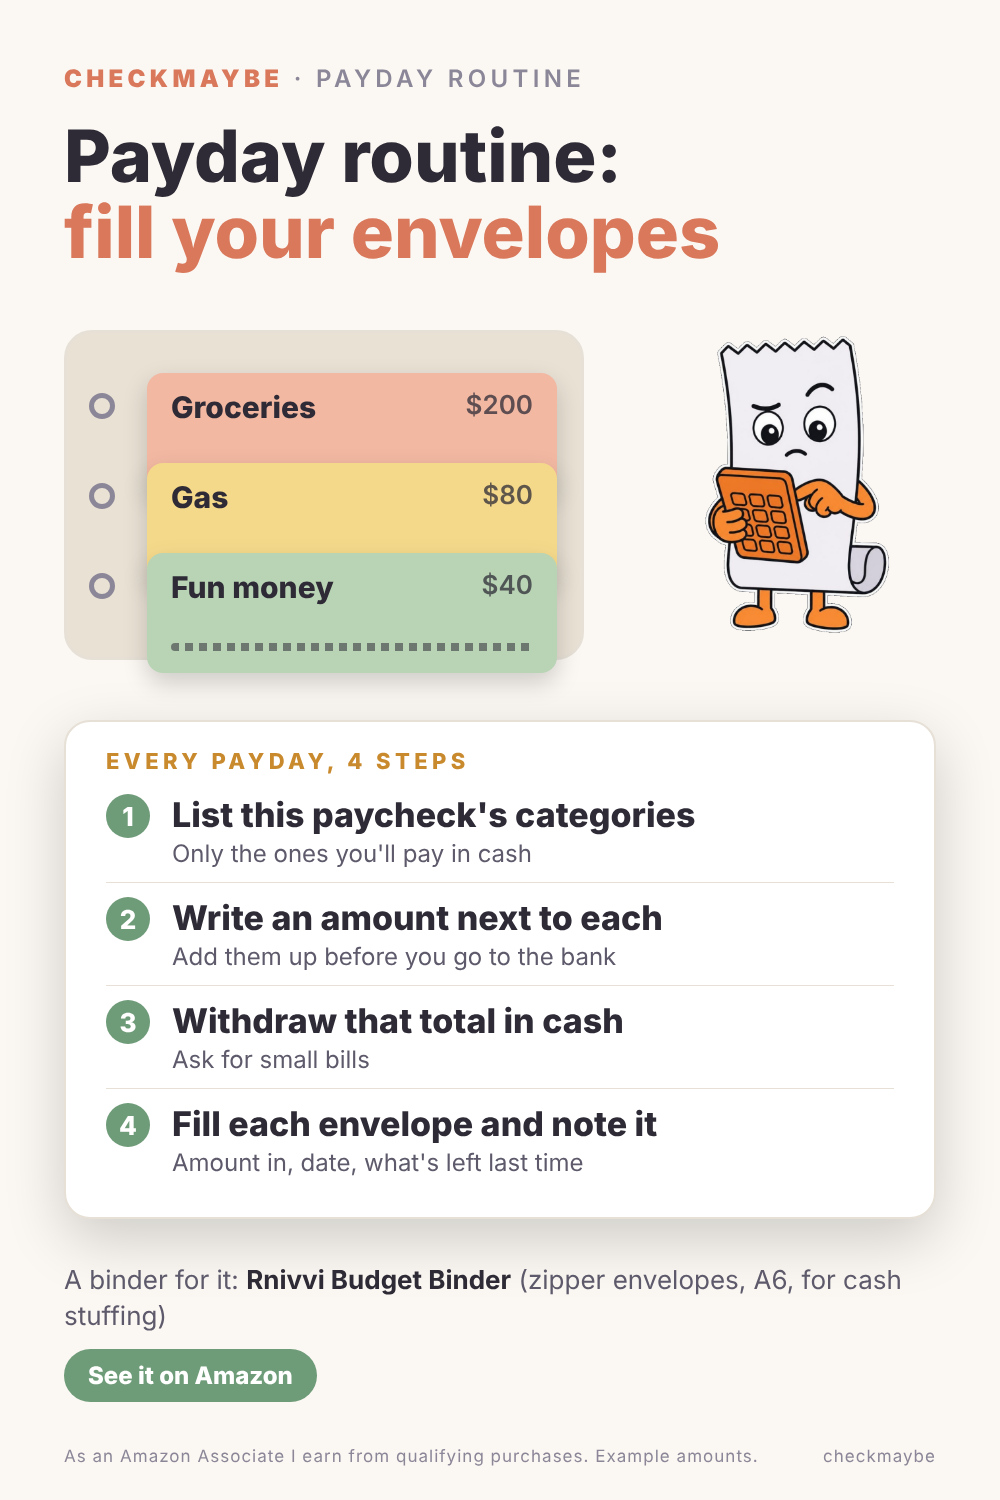
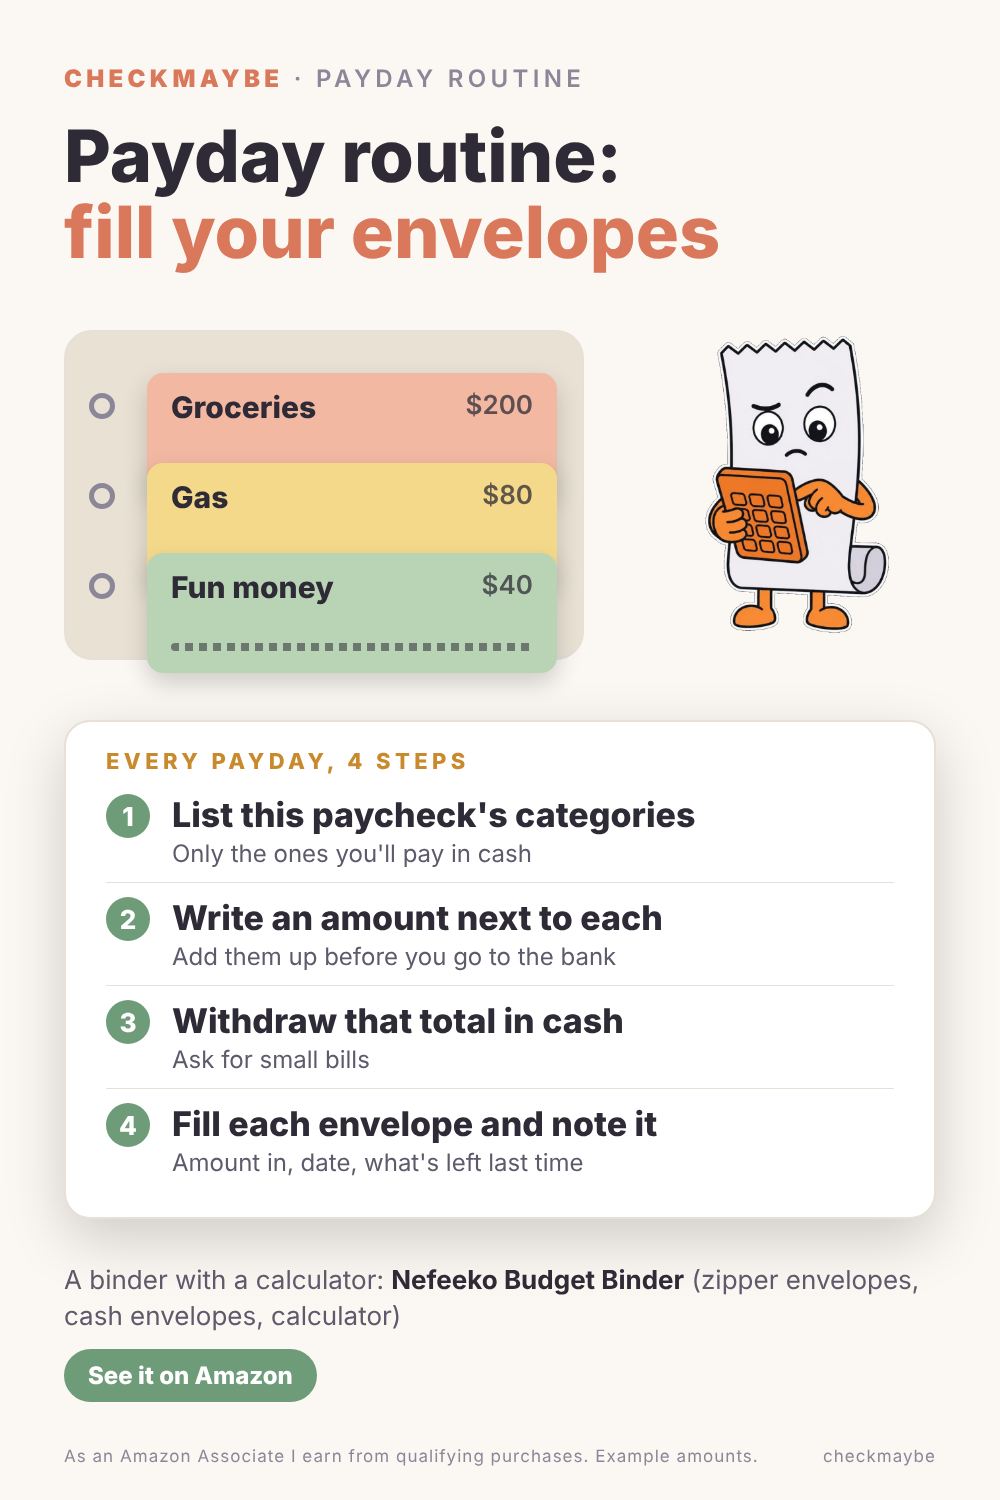
Amazon pin az4: switch to Nefeeko budget binder with calculator (J's pick) with link
Claude-Session: https://claude.ai/code/session_012dBA7SqmaqwCRXrXc8dwP2

Changed region(s): [[0.062, 0.828, 0.899, 0.8893]]

diff --git a/content/pinterest/2026-11/build_pins_v15_amazon.py b/content/pinterest/2026-11/build_pins_v15_amazon.py
@@ -72,7 +72,7 @@ PINS = [
                ("Write an amount next to each", "Add them up before you go to the bank"),
                ("Withdraw that total in cash", "Ask for small bills"),
                ("Fill each envelope and note it", "Amount in, date, what's left last time")],
-         pick='A binder for it: <b>Rnivvi Budget Binder</b> (zipper envelopes, A6, for cash stuffing)'),
+         pick='A binder with a calculator: <b>Nefeeko Budget Binder</b> (zipper envelopes, cash envelopes, calculator)'),
     dict(id="az5", themes=["light"], art=f"{A2}/happy.jpg", kicker="Cash envelope rules",
          h1="Envelope empty?<br><em>That category is done</em>",
          envs=[("Groceries", "$12 left"), ("Gas", "$0 left"), ("Fun money", "$25 left")],

diff --git a/content/pinterest/2026-11/pins-v15-amazon.md b/content/pinterest/2026-11/pins-v15-amazon.md
@@ -10,7 +10,7 @@ Posting (J 2026-11-20): 2 to 3 pins a day to build volume. Mix product types eac
 | az1 (dark + light) | What your binder needs | SKYDUE https://www.amazon.com/dp/B0C7VFYKKP | `https://www.amazon.com/dp/B0C7VFYKKP?th=1&linkCode=ll2&tag=checkmaybe-20&linkId=6ed44b33d79014950726d4cdcb9ed727` |
 | az2 | Start with 3 envelopes | NICOOTH https://www.amazon.com/dp/B09GK8BGRT | `<amzn.to>` |
 | az3 | Card bill higher than expected? | Antner https://www.amazon.com/dp/B08LSKL338 (J's pick, 2026-11-20) | `https://www.amazon.com/dp/B08LSKL338?th=1&linkCode=ll2&tag=checkmaybe-20&linkId=61de726983dc13a6ada8f241097170b2` |
-| az4 | Payday routine, 4 steps | Rnivvi https://www.amazon.com/dp/B0BTM72R34 | `<amzn.to>` |
+| az4 | Payday routine, 4 steps | Nefeeko Budget Binder with calculator (J's pick 2026-11-20: 4.6 stars, 3,219 ratings, Amazon's Choice, 100+ bought past month, $13.59 Prime) | `https://link.amazon/B028pfZbg` |
 | az5 | Envelope empty, category done | Ginmlyda https://www.amazon.com/dp/B09D9KLNGL | `<amzn.to>` |
 | az6 | 100 envelopes = $5,050 | APMFHO 100 Days Money Saving Challenge (J's pick 2026-11-20: 4.5 stars, 912 ratings, Amazon's Choice, 500+ bought past month, $7.99) | `https://link.amazon/B03V55wCK` |
 | az7 | Do 50 envelopes ($1,275) | RONMONG https://www.amazon.com/dp/B0CT2GF177 | `<amzn.to>` |
@@ -23,7 +23,7 @@ Posting (J 2026-11-20): 2 to 3 pins a day to build volume. Mix product types eac
 | az14 | One pocket a month | SOLIGT (same as az12) | same as az12 |
 | az15 | 10-minute weekly check | Taja (same as az11) | same as az11 |
 
-10 links needed in total (SKYDUE, NICOOTH, Antner, Rnivvi, Ginmlyda, APMFHO, RONMONG, GINTBN, Taja, SOLIGT).
+10 links needed in total (SKYDUE, NICOOTH, Antner, Nefeeko, Ginmlyda, APMFHO, RONMONG, GINTBN, Taja, SOLIGT).
 Math on the savings pins: 1 + 2 + ... + 100 = 5,050; 1 + ... + 50 = 1,275; Jan 1, 2027 is day 1, Feb 28 day 59, Apr 10 day 100.
 
 ## Schedule (2 to 3 a day)
@@ -56,7 +56,7 @@ Disclosure line (end of every description): `As an Amazon Associate I earn from 
 
 ### az4
 - **Title:** Payday Routine: Fill Your Cash Envelopes in 4 Steps
-- **Description:** Every payday: list the categories you'll pay in cash, write an amount next to each, withdraw the total in small bills, then fill each envelope and note the amount and date. Binder used in the example: Rnivvi Budget Binder, A6, with zipper envelopes for cash stuffing. Example amounts. As an Amazon Associate I earn from qualifying purchases. #cashstuffing #paycheckbudget #budgetbinder
+- **Description:** Every payday: list the categories you'll pay in cash, write an amount next to each, withdraw the total in small bills, then fill each envelope and note the amount and date. Binder used in the example: Nefeeko Budget Binder with zipper envelopes, cash envelopes and a calculator for adding up the amounts. Example amounts. As an Amazon Associate I earn from qualifying purchases. #cashstuffing #paycheckbudget #budgetbinder
 - **Alt text:** Envelopes for groceries $200, gas $80 and fun money $40, with a numbered four-step payday routine.
 
 ### az5
